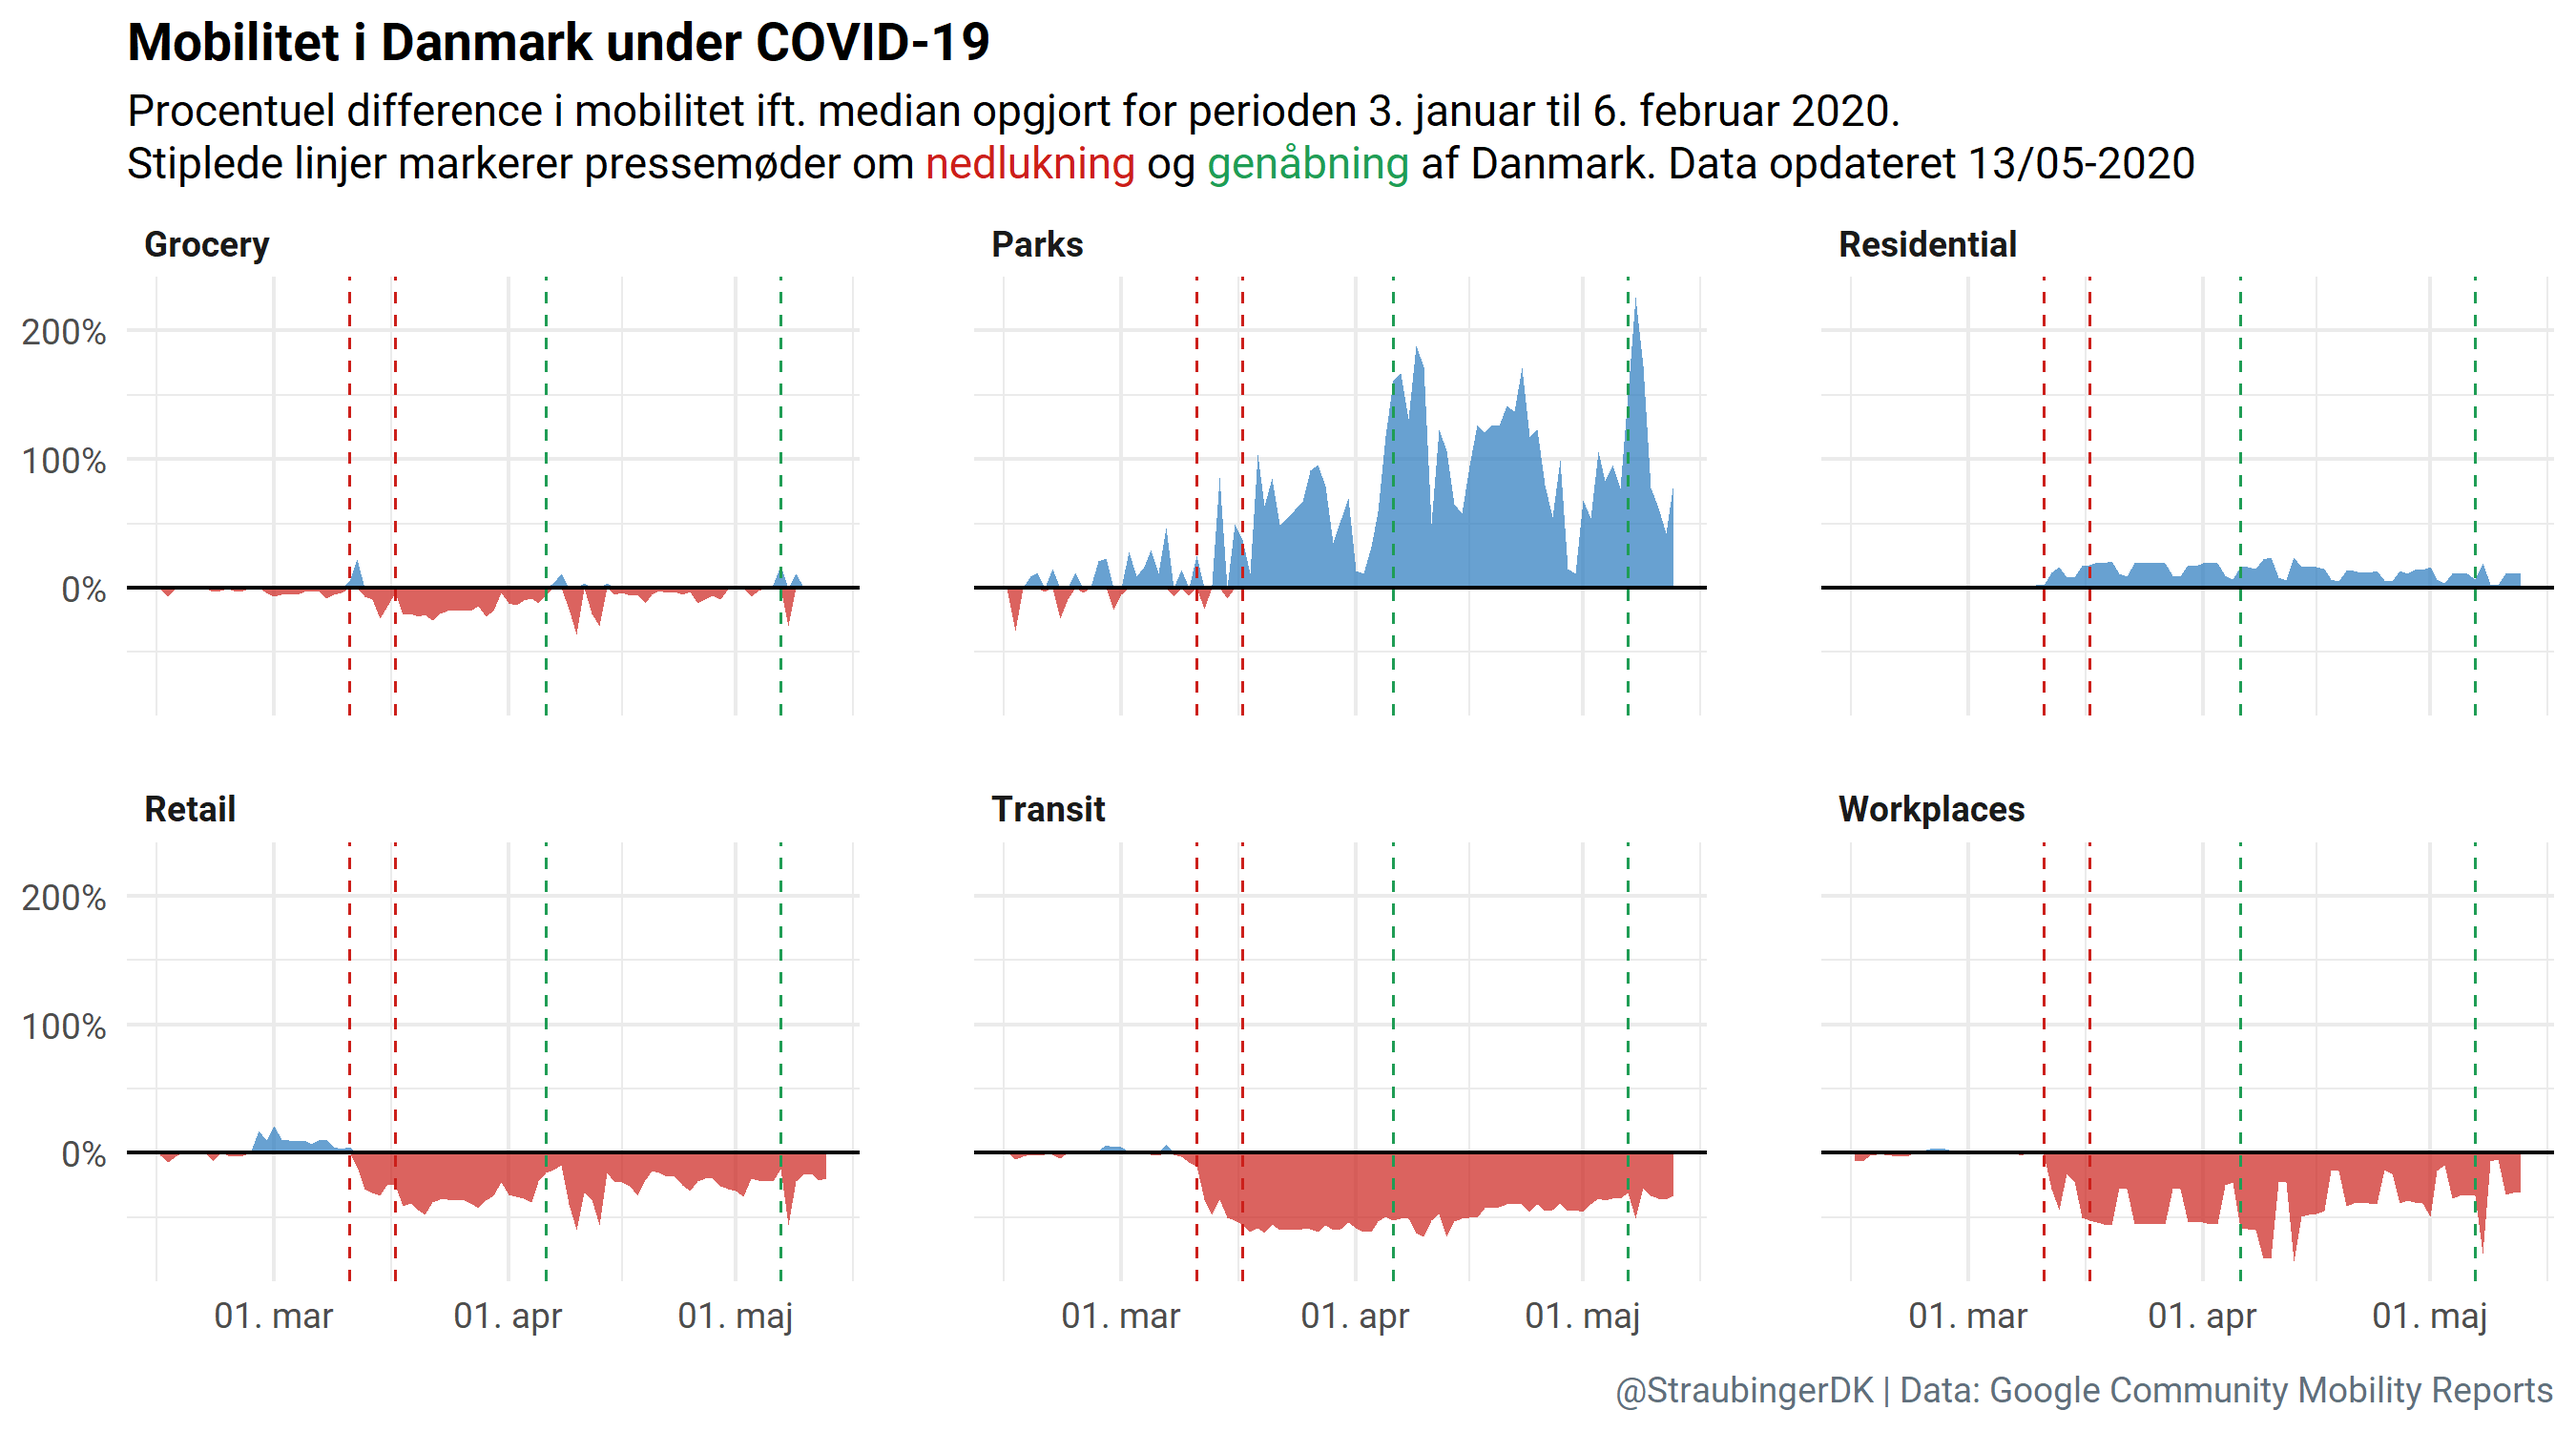
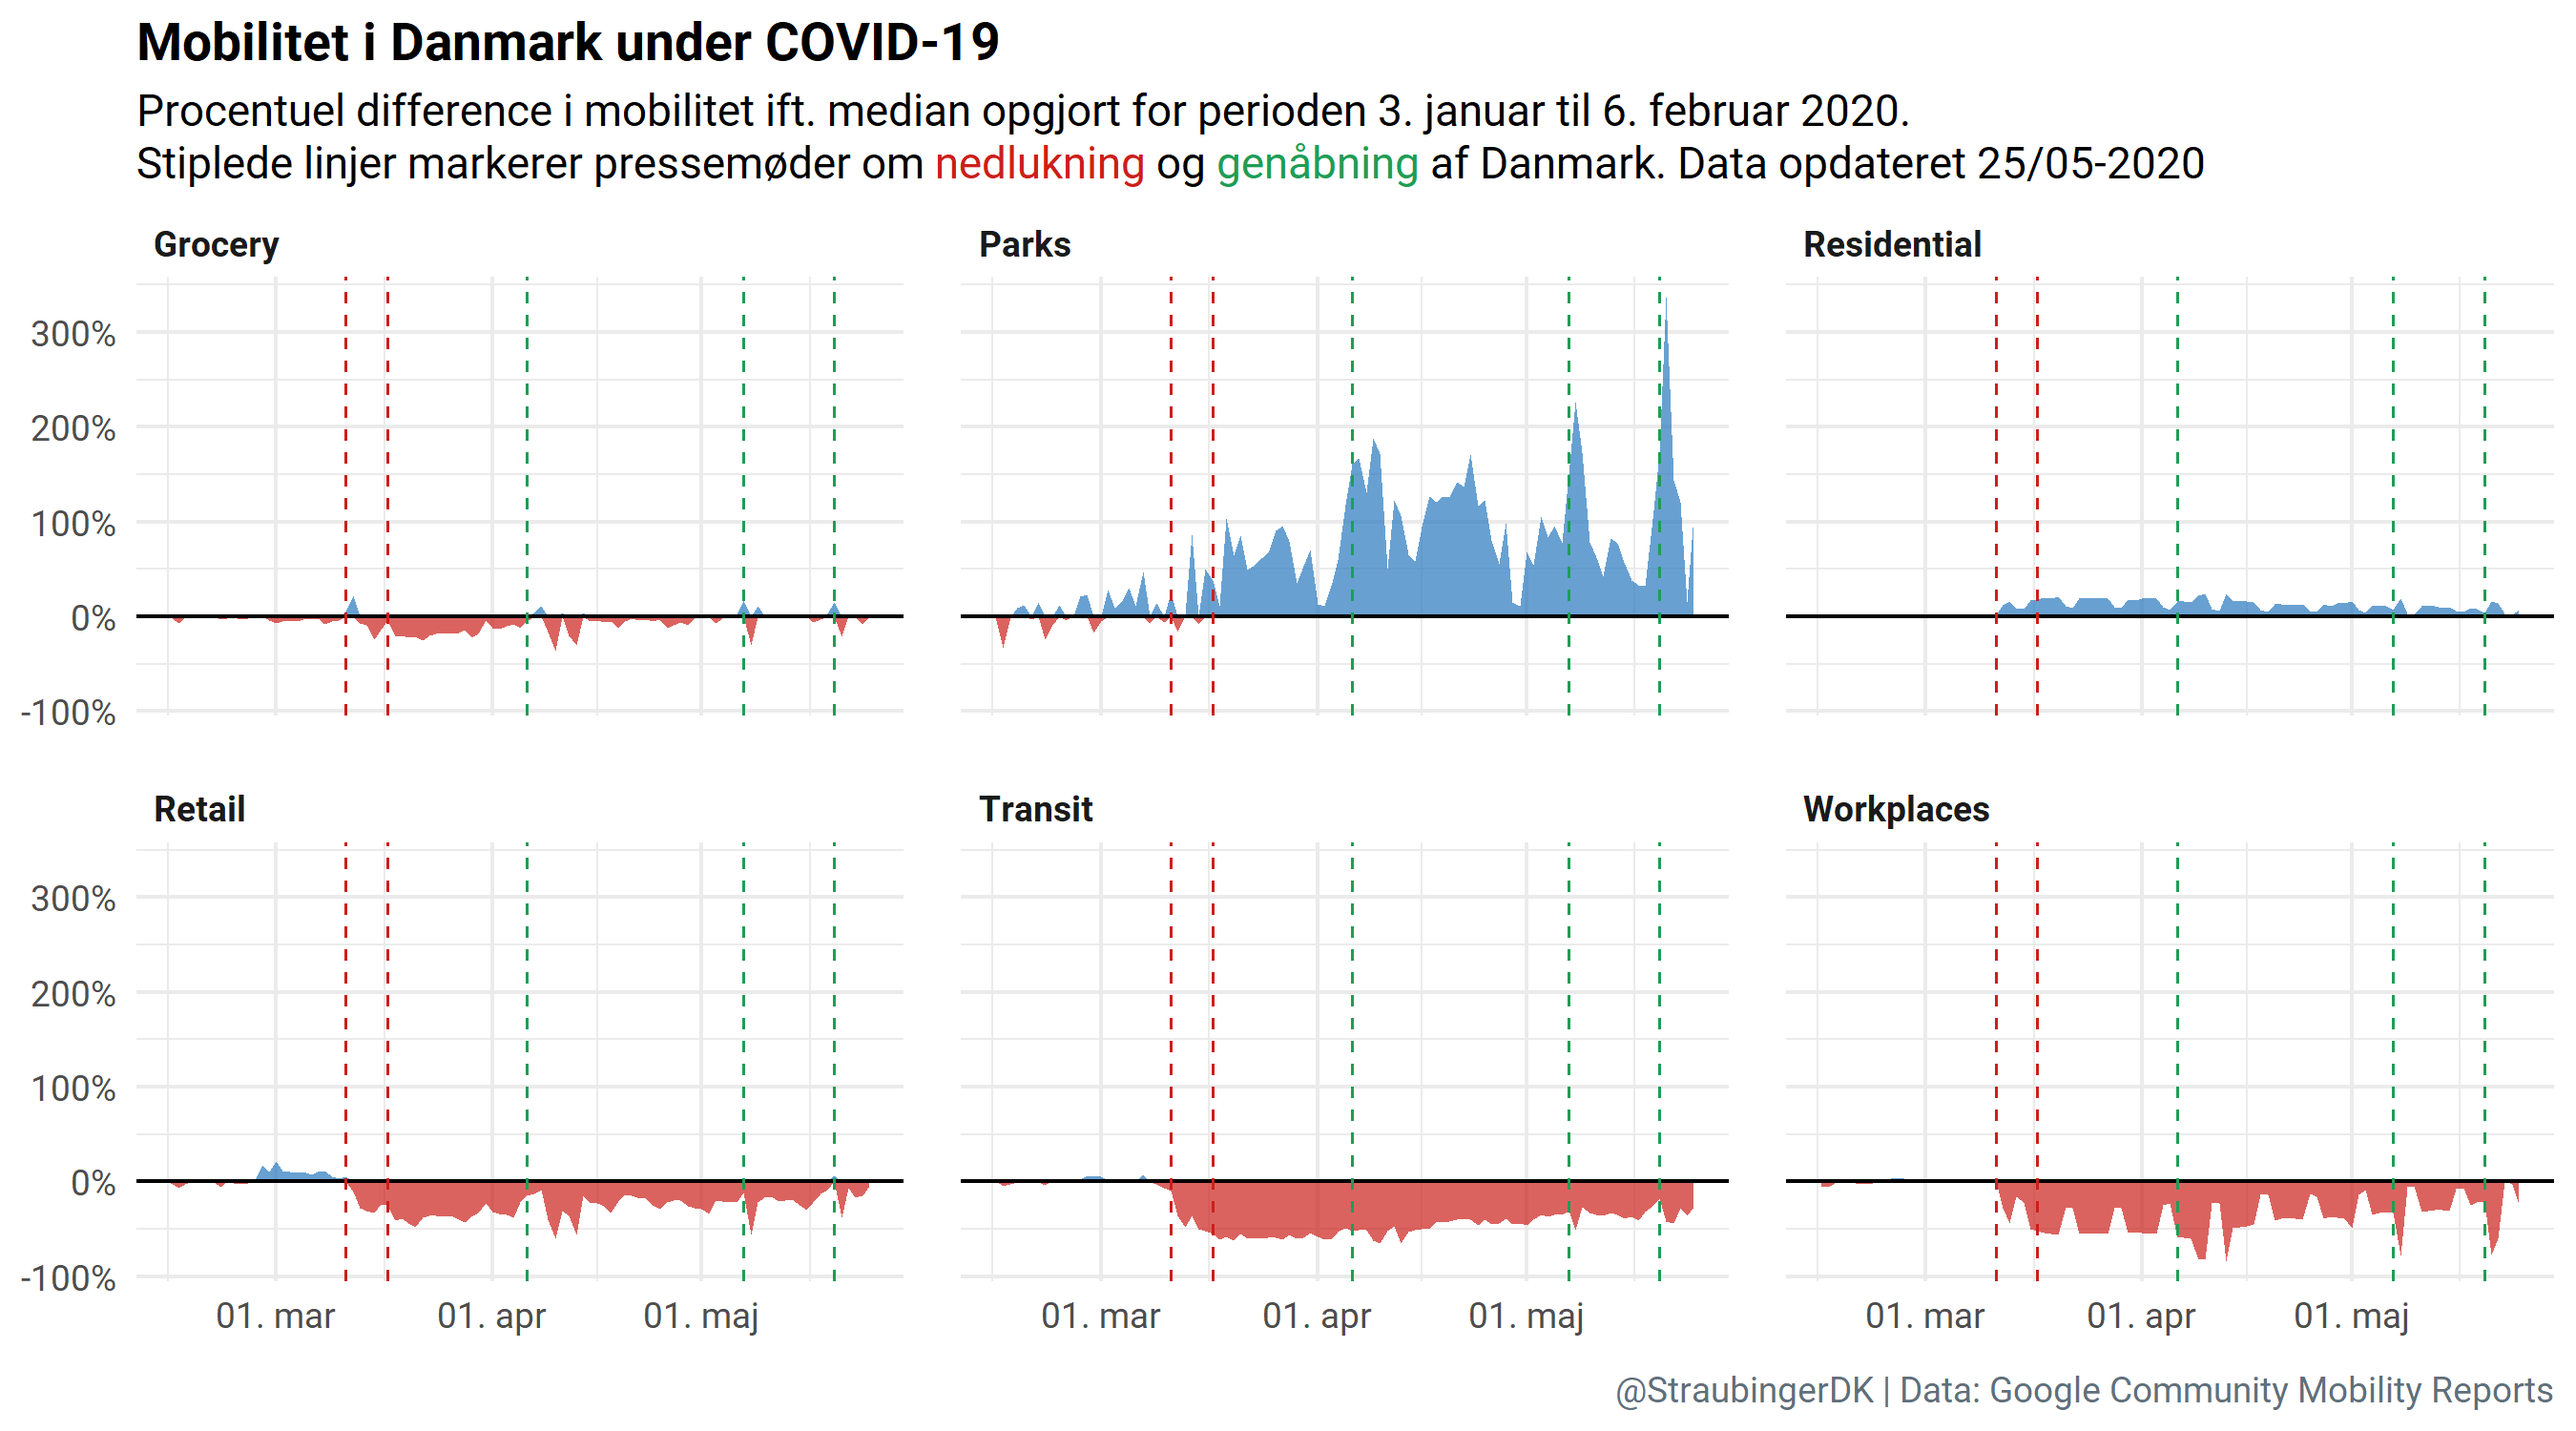
Update mobility

diff --git a/public/index.html b/public/index.html
@@ -1160,7 +1160,7 @@
       
       
       <a href="/project/2020-04-30_corona_mobility/" >
-        <img src="/project/2020-04-30_corona_mobility/featured_hubf10801af9ab8b90fb303f270606025e_84947_540x0_resize_lanczos_2.png" alt="">
+        <img src="/project/2020-04-30_corona_mobility/featured_hu3664da3d4ed8e1d04c8bc4069167d320_92106_540x0_resize_lanczos_2.png" alt="">
       </a>
       
     </div>
